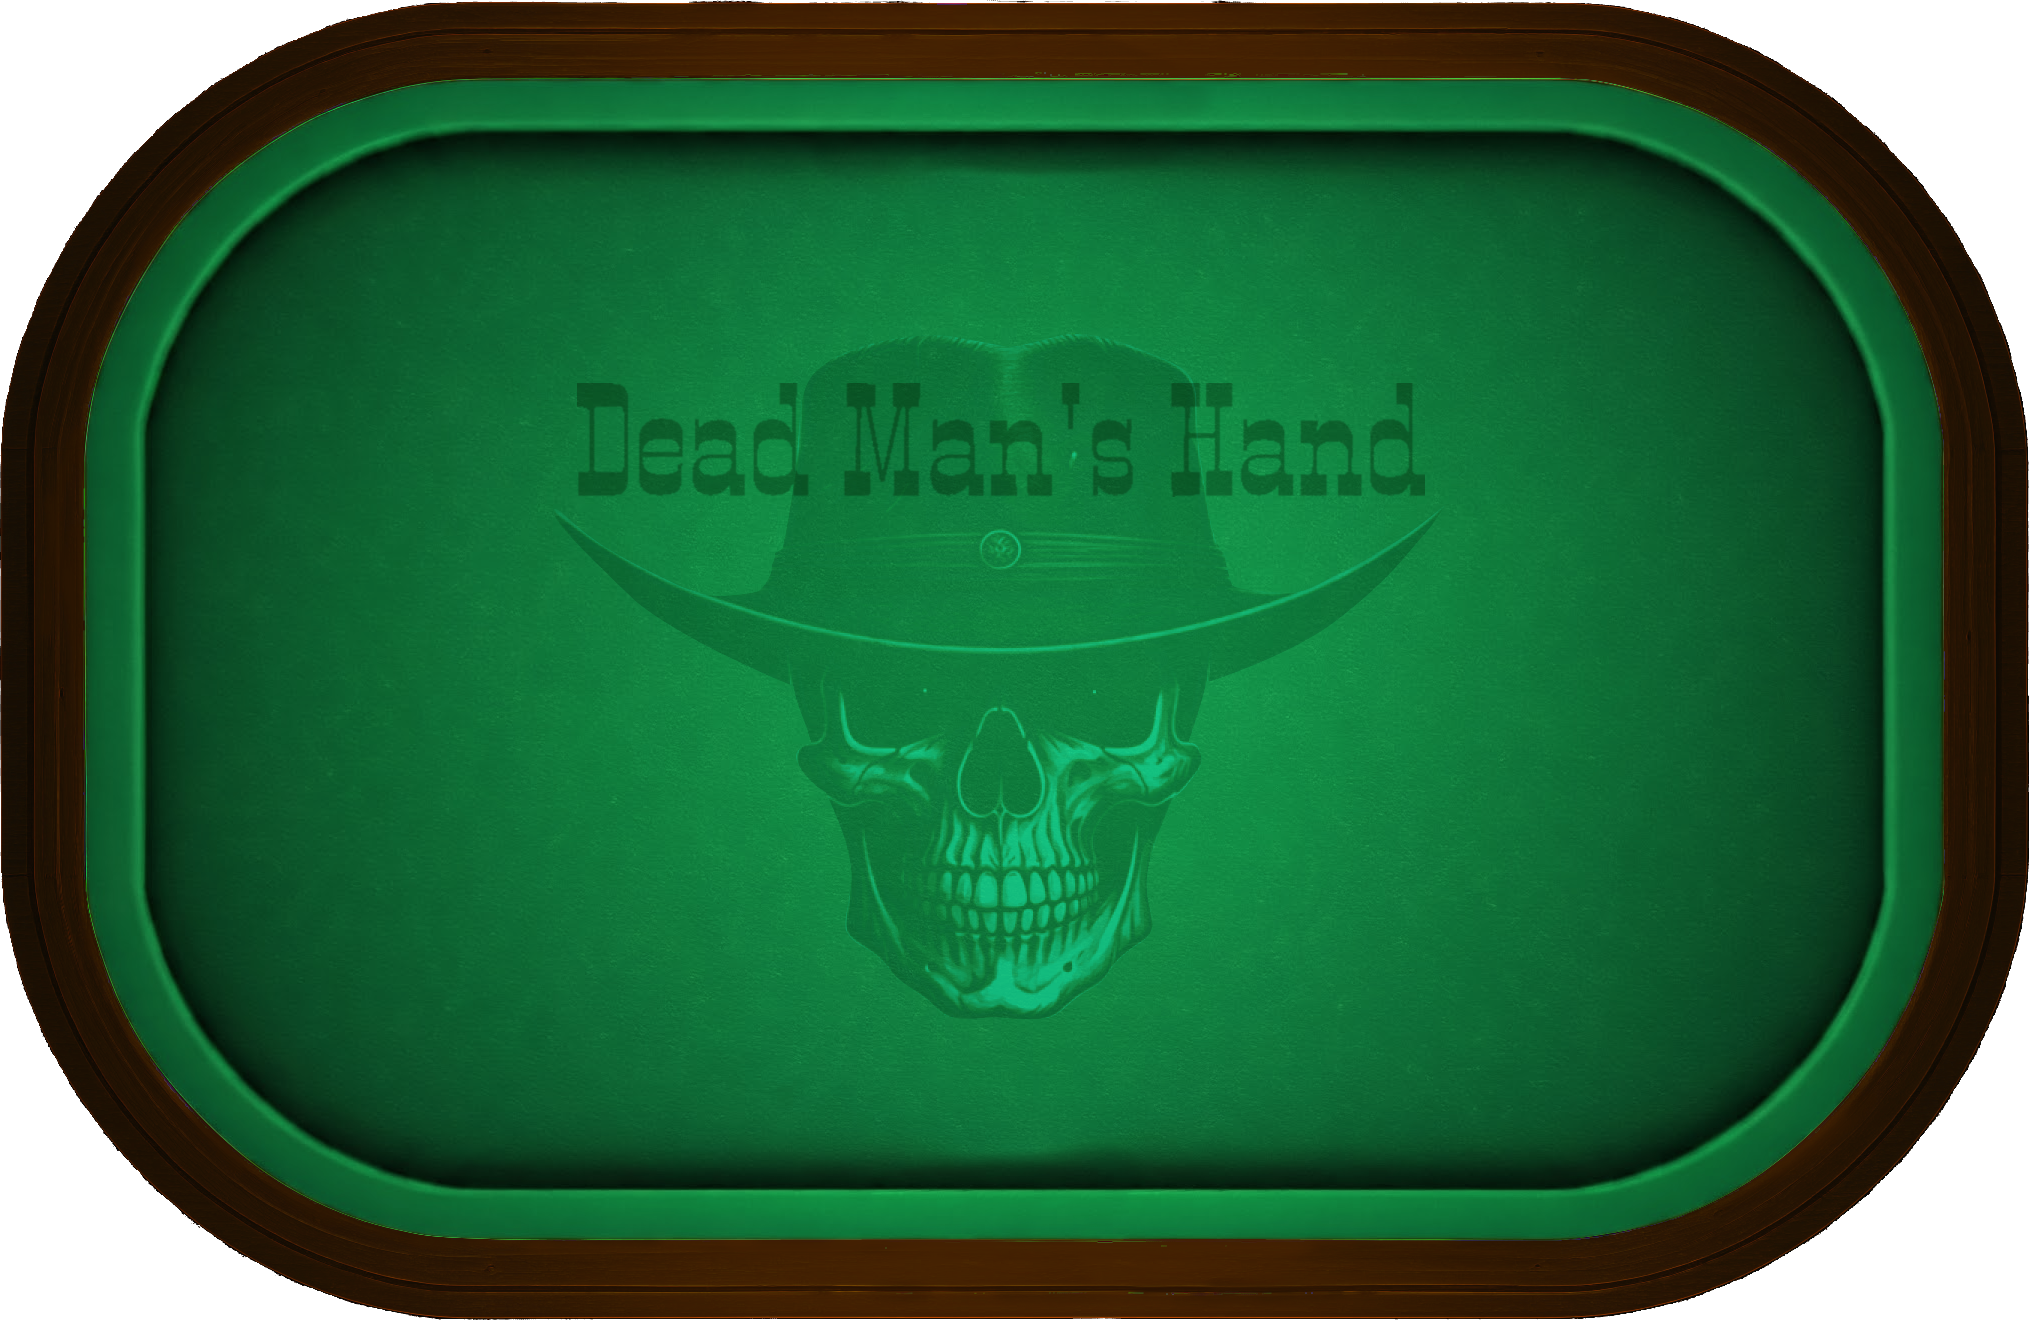
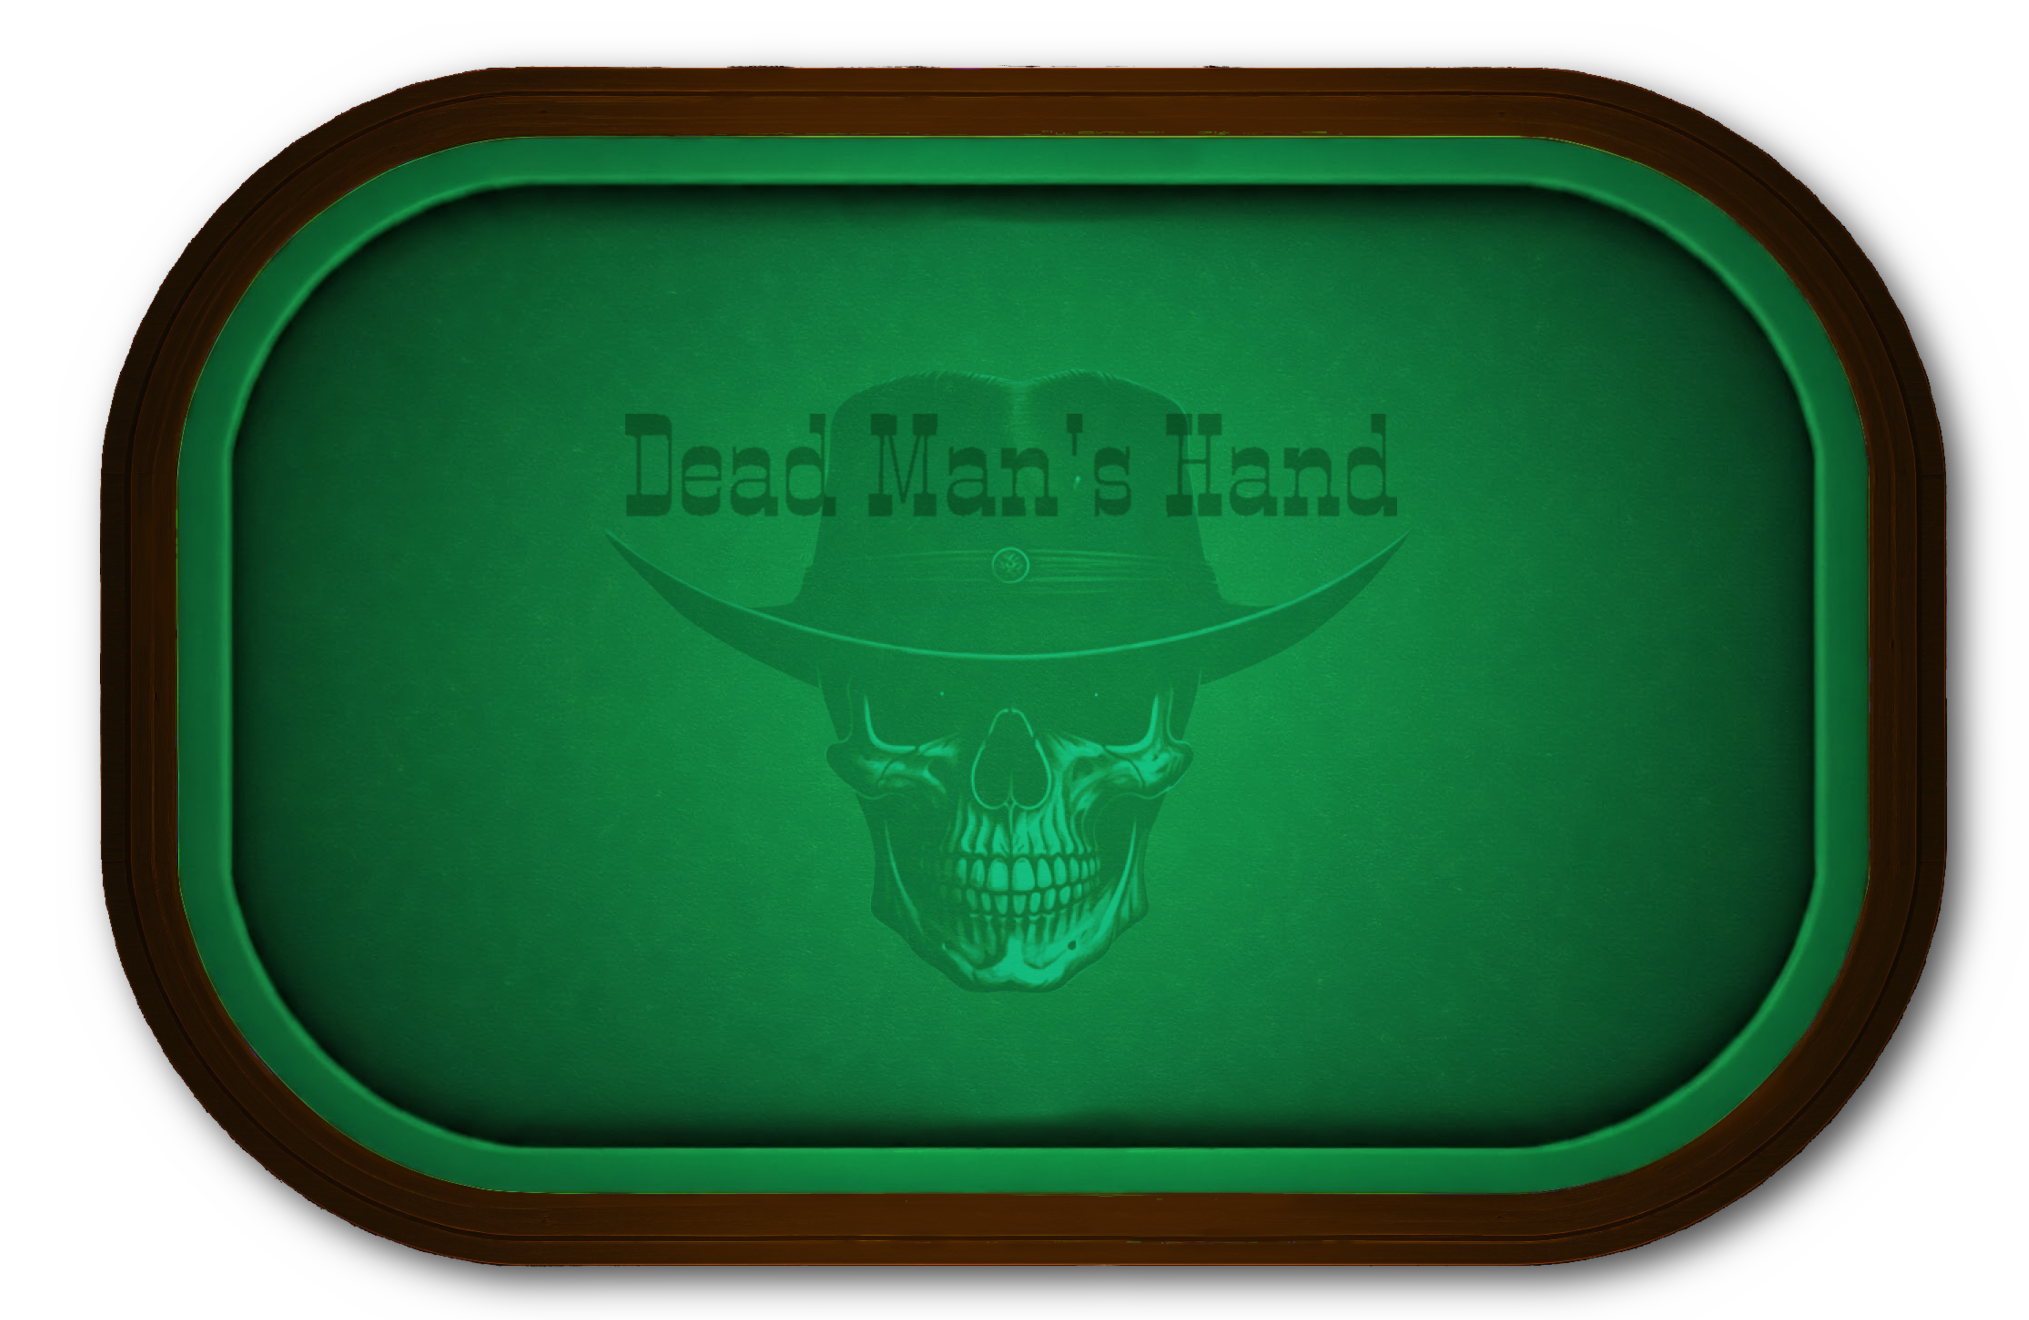
tisch-schatten

diff --git a/style.css b/style.css
@@ -171,12 +171,13 @@ body {
 
 #poker-table {
   position: relative;
-  width: 79vh;
-  height: 51vh;
+  width: 84vh;
+  height: 54vh;
   background: url("assets/tisch.png") no-repeat center;
   background-size: cover;
   margin: 8vh 0;
   background-position: center;
+  box-shadow: 0 0 20px rgba(0, 0, 0, 0.5);
 }
 
 /* Gemeinschaftskarten */
